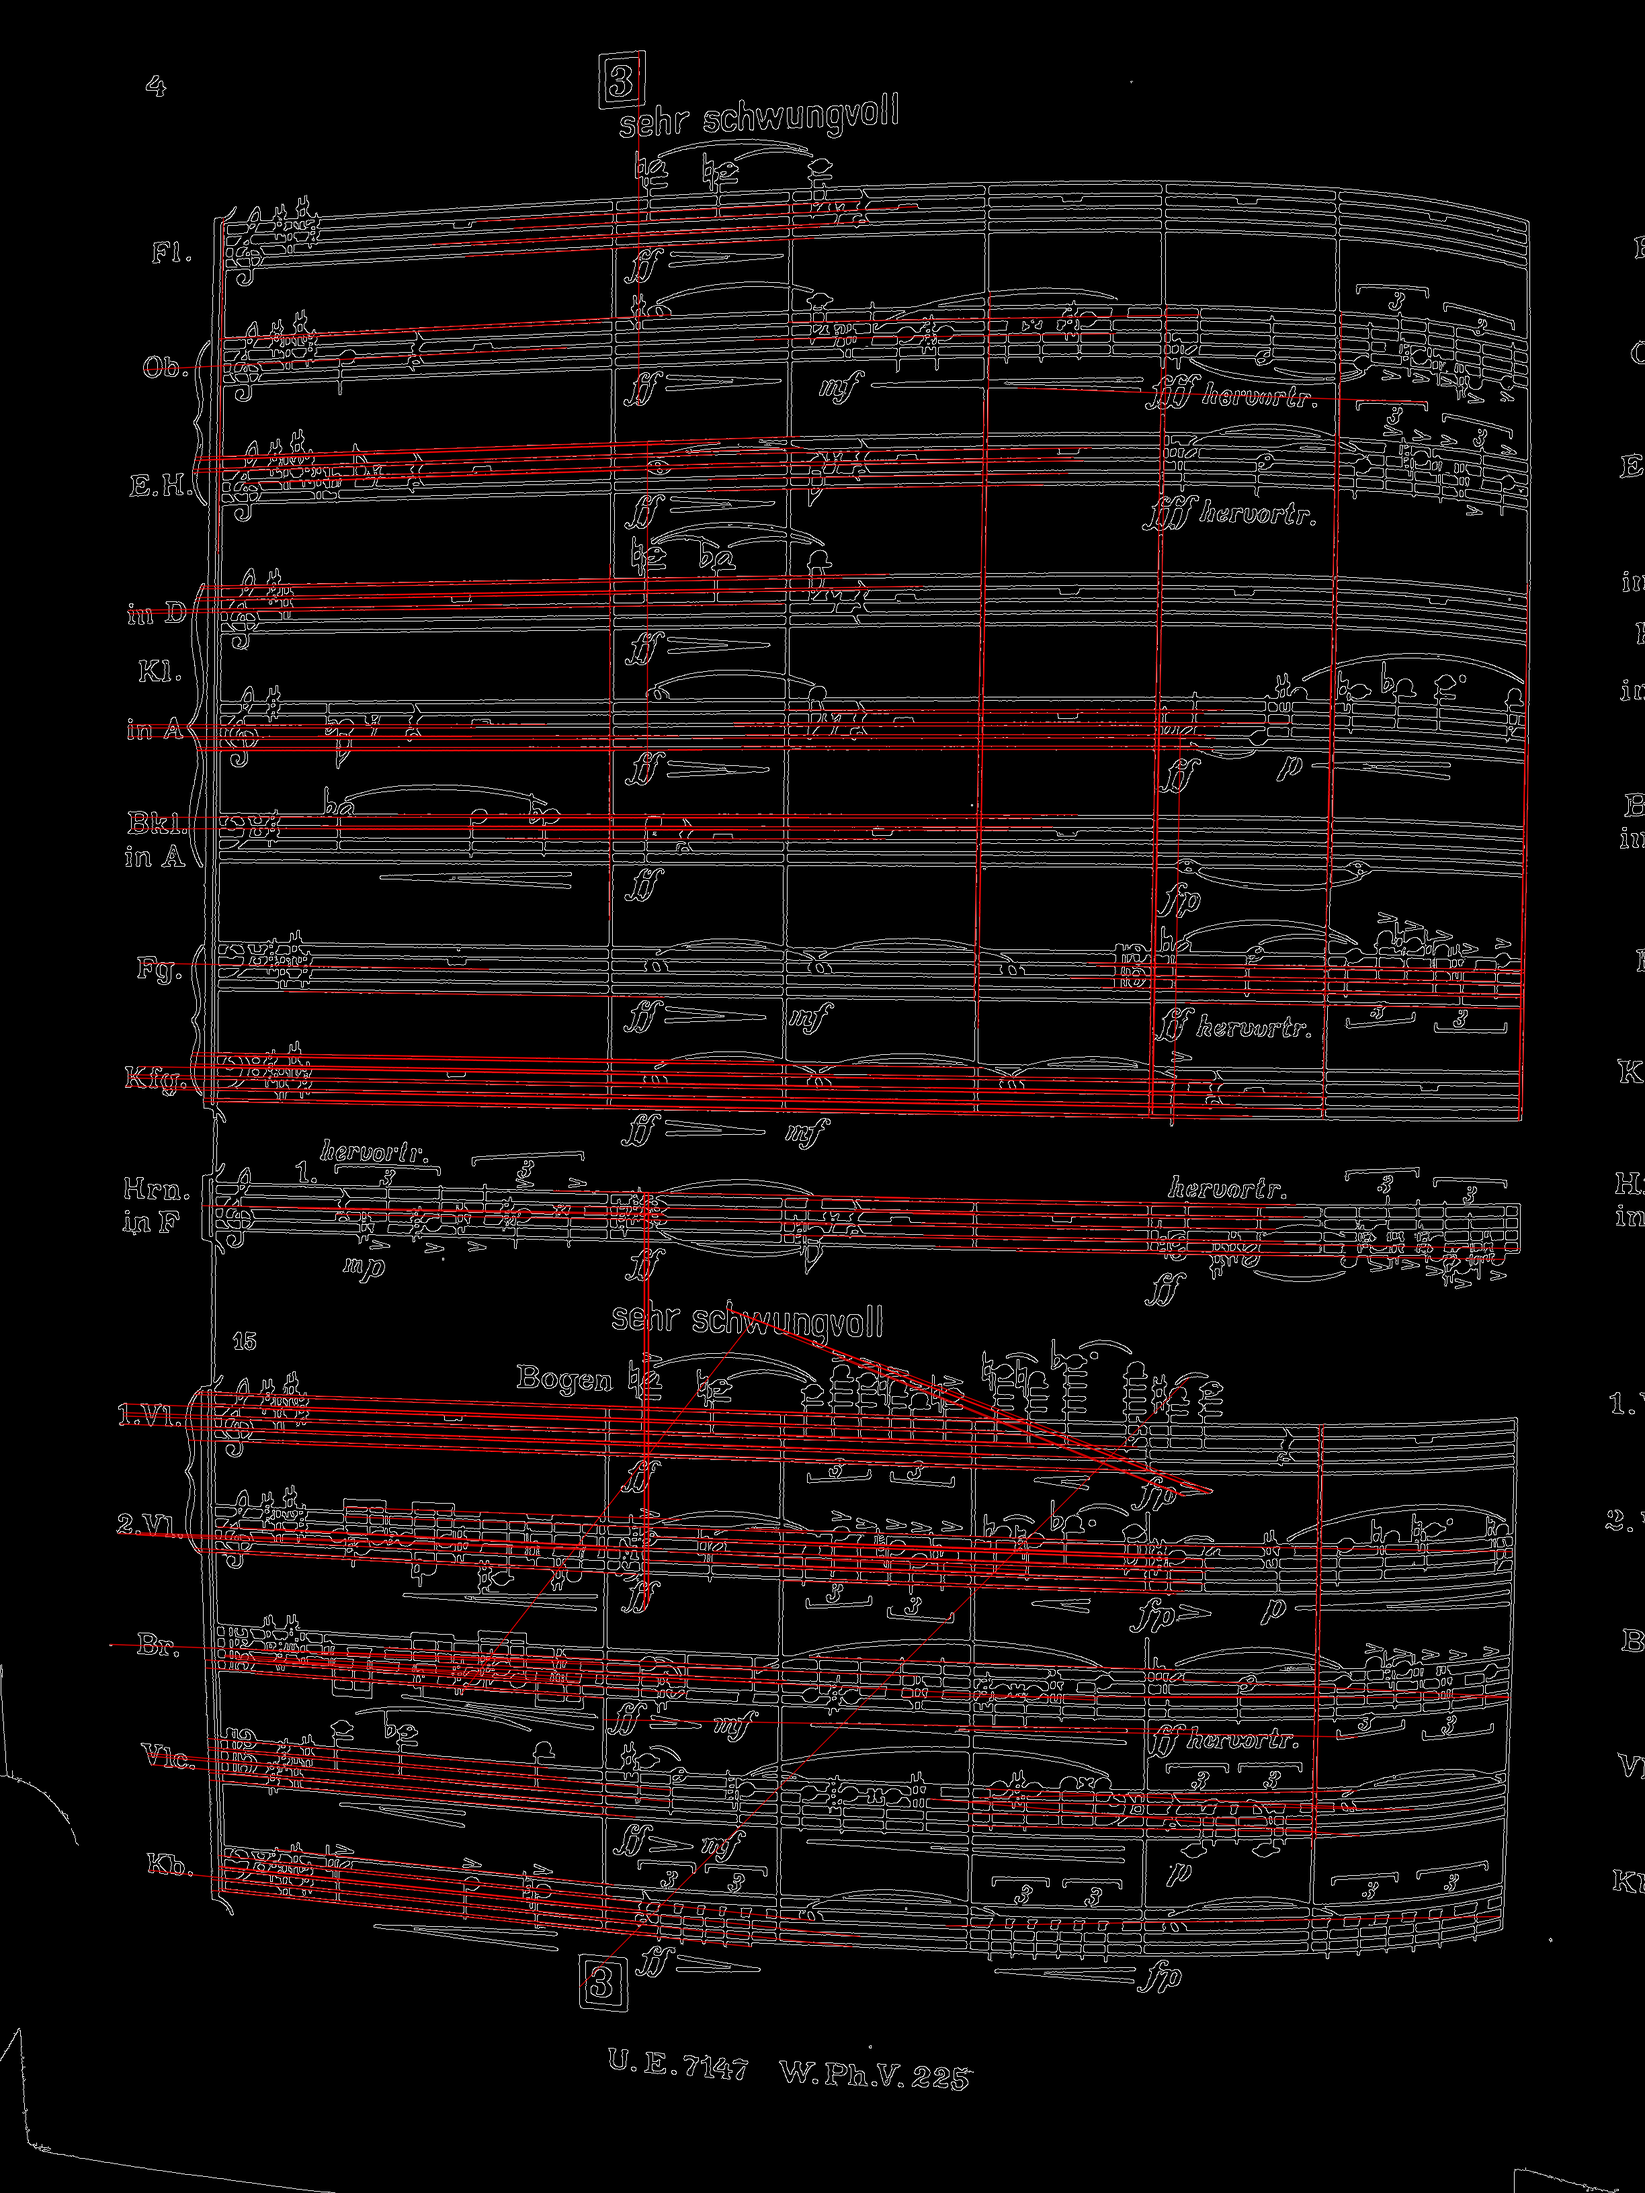
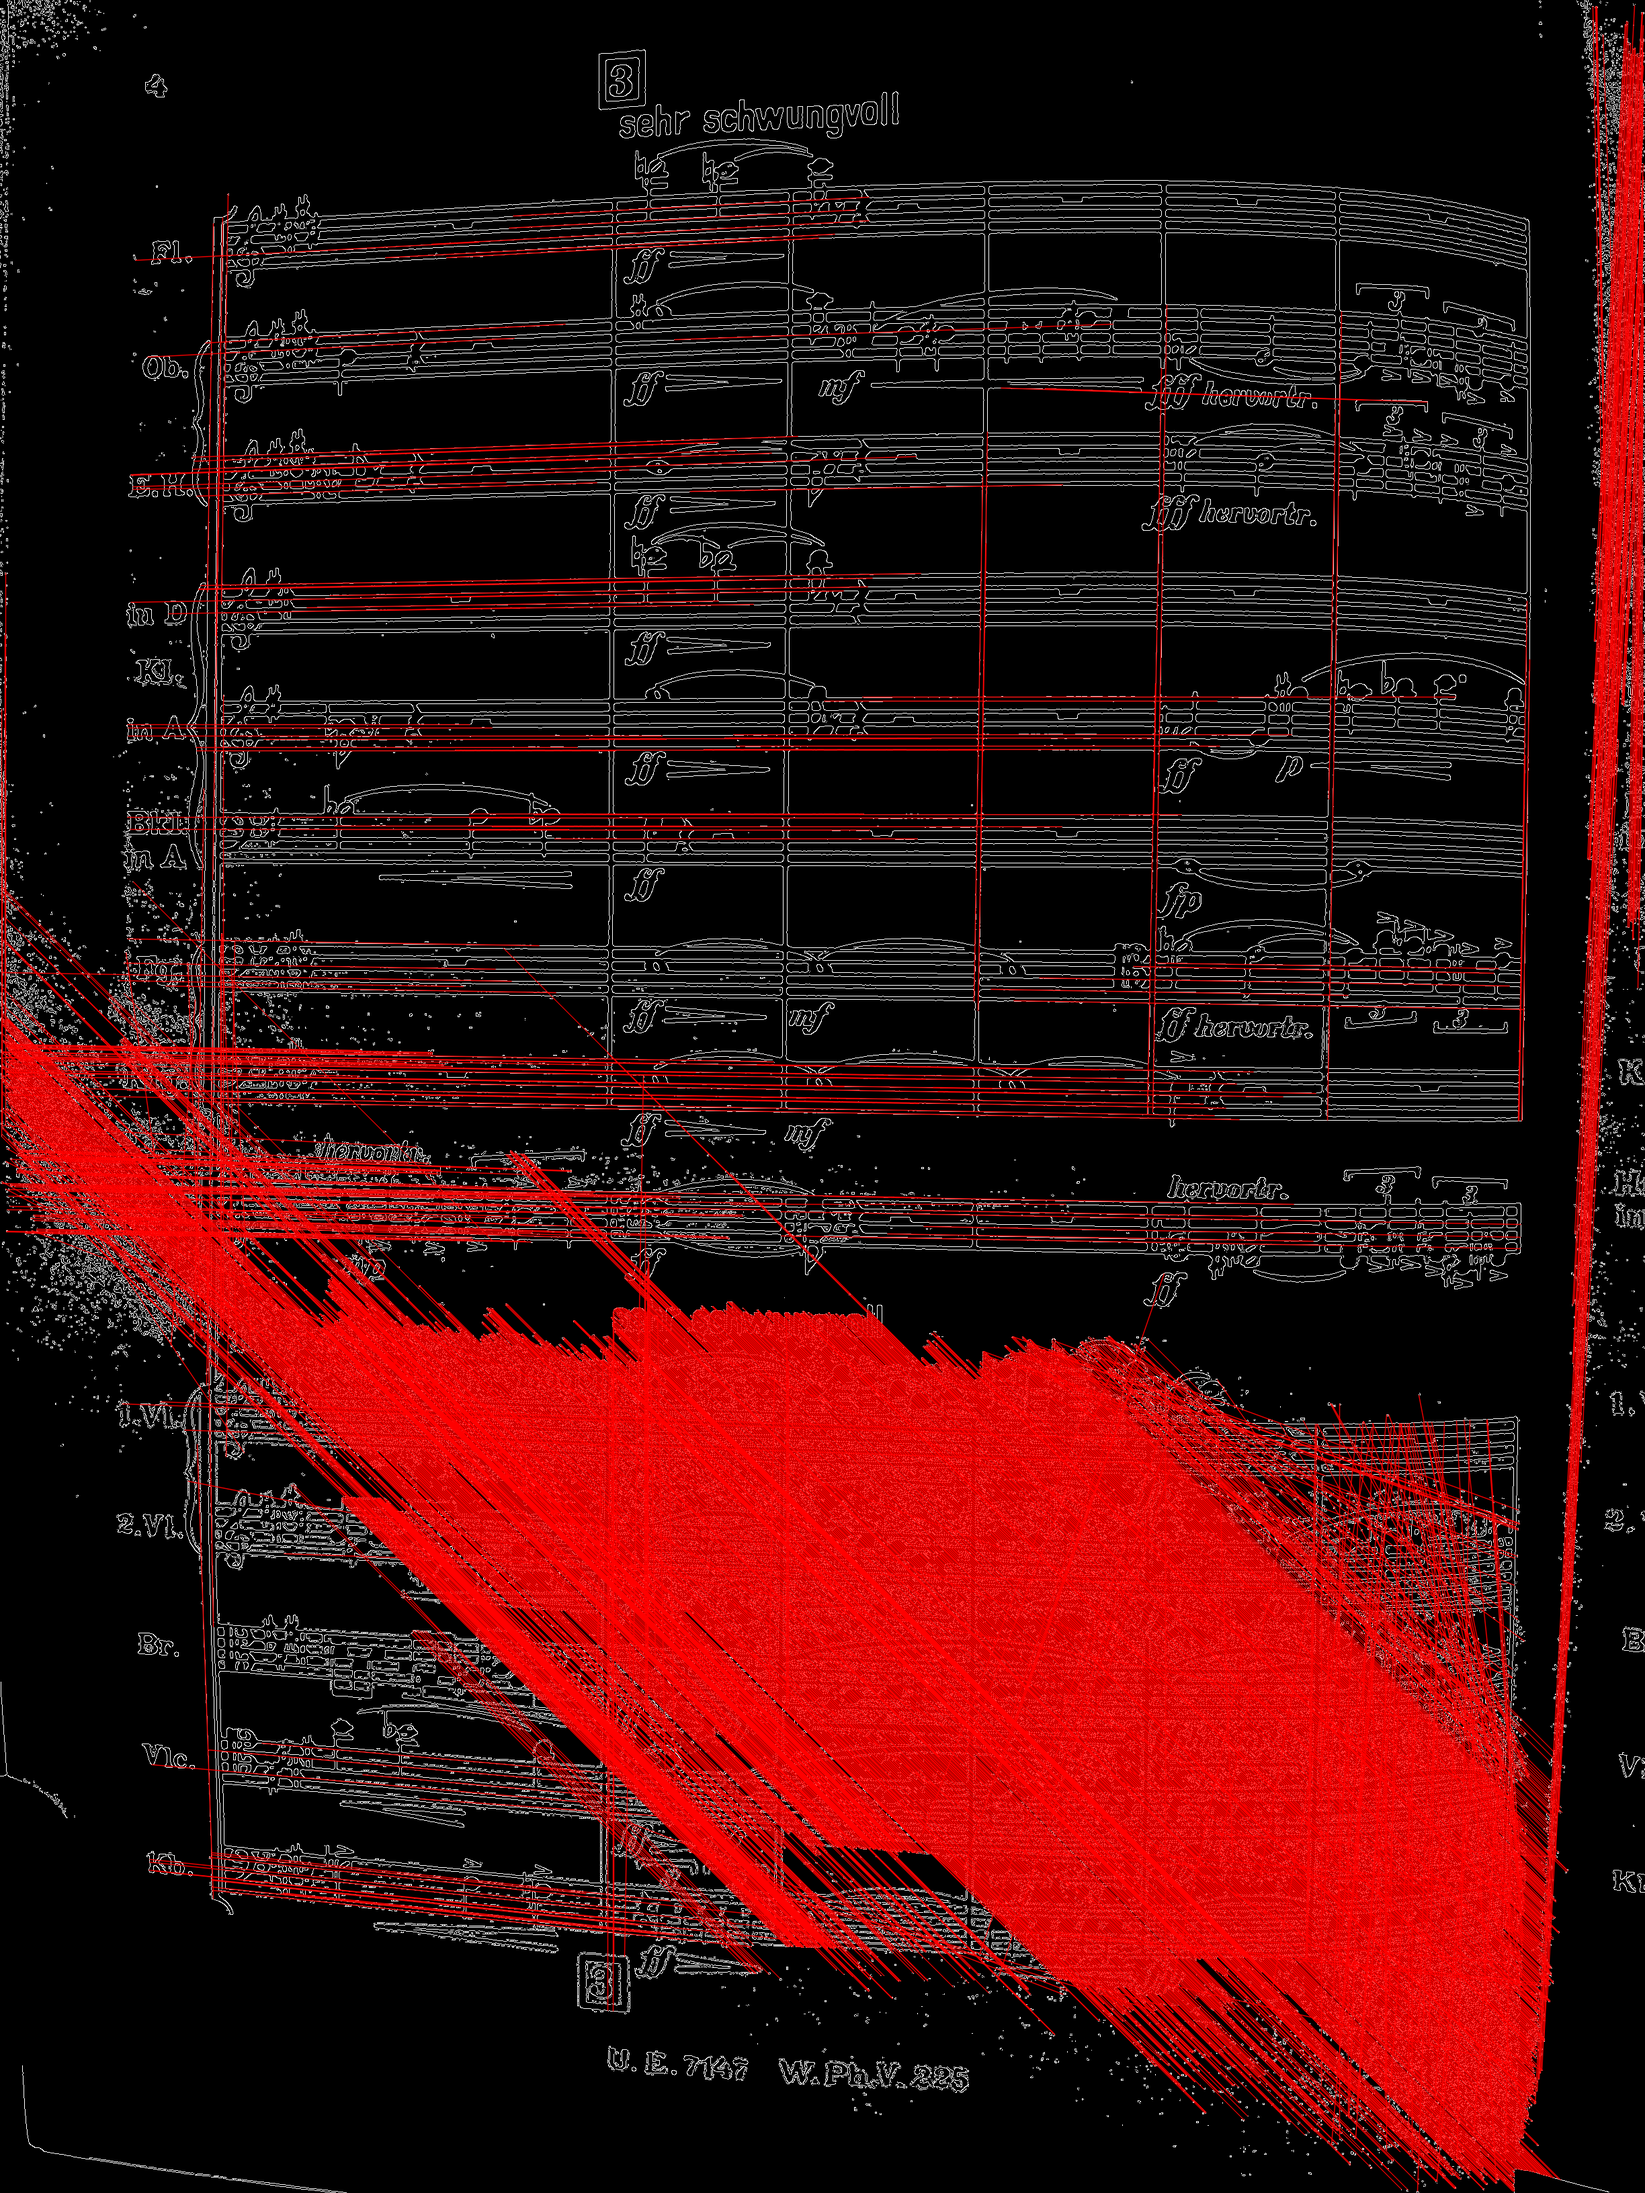
Add init.py to dewarp  & add denoise before dewarp

diff --git a/dewarp/dewarp_hough.py b/dewarp/dewarp_hough.py
@@ -1,6 +1,6 @@
 """
-@file hough_lines.py
-@brief This program demonstrates line finding with the Hough transform
+@file dewarp_hough.py
+@brief This program demonstrates line finding with the Hough transform. Eventual goal is to dewarp the music sheet image.
 """
 import sys
 import math
@@ -8,19 +8,28 @@ import cv2 as cv
 import numpy as np
 import matplotlib.pyplot as plt
 
+# from notes.note_objects import Stem, Note, Head, Flag, Beam, Accidental
+# from staffs.staff_objects import Staff
+from denoise.denoise import denoise
+
+
 DIR = 'images/sheets/mscd-15/' #trombone/'
 INPUT_PATH = DIR + 'input.png'
 OUTPUT_PATH = DIR + 'deskew-hough.png'
 
+DENOISE_FIRST = True
+
 def main():    
-    filename = INPUT_PATH
-    src = cv.imread(cv.samples.findFile(filename), cv.IMREAD_GRAYSCALE)
+    if DENOISE_FIRST:
+        src = denoise(INPUT_PATH)
+    else:
+        src = cv.imread(INPUT_PATH, cv.IMREAD_GRAYSCALE)
     # Check if image is loaded fine
     if src is None:
         print ('Error opening image!')
         return -1
     imshow("Source", src)
-
+    
     # Edge detection
     # TODO
     dst = cv.Canny(src, 50, 200, None, 3)
@@ -68,9 +77,13 @@ def main():
     return 0
     
 def imshow(title, image):
-    plt.imshow(image)
-    plt.title(title)
-    plt.show()
+    USE_PLT = True
+    if USE_PLT:
+        plt.imshow(cv.cvtColor(image, cv.COLOR_BGR2RGB))
+        plt.title(title)
+        plt.show()
+    else:
+        cv.imshow(title, image)
     return
 
 if __name__ == "__main__":

diff --git a/misc/runall.py b/misc/runall.py
@@ -6,15 +6,15 @@ Created on Sat Jun 13 17:49:06 2020
 """
 
 import cv2
-from seperate_staffs import seperate_staffs
-from staff_objects import Staff #, Staff_measure, Bar_line, split_measures
-from note_objects import Template, Head#, Stem #, Flag, Rest, Accidental, Dots, Relation
-from build_notes_objects import find_stems, build_notes
+from staffs.seperate_staffs import separate_staffs
+from staffs.staff_objects import Staff #, Staff_measure, Bar_line, split_measures
+from notes.note_objects import Template, Head#, Stem #, Flag, Rest, Accidental, Dots, Relation
+from notes.build_notes_objects import find_stems, build_notes
 from template_matching import template_matching
 
 img = cv2.imread('Fmttm.png')
 
-staff_imgs = seperate_staffs(img)
+staff_imgs = separate_staffs(img)
 
 staffs = []
 for s in staff_imgs:
